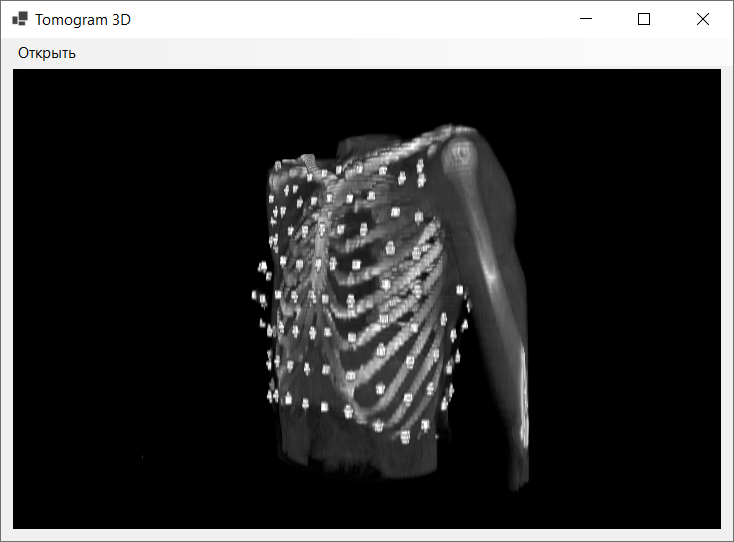
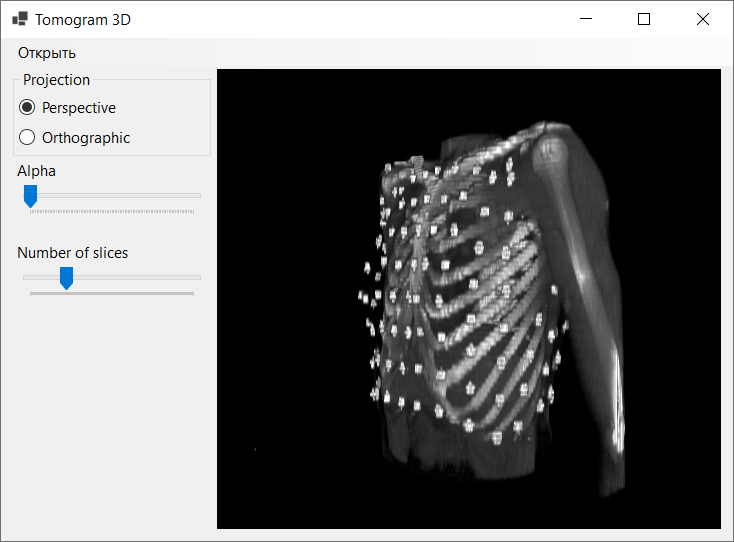
readme update 3d

diff --git a/README.md b/README.md
@@ -16,6 +16,10 @@
 
 ## Tomogram 3D
 
-3D визуализация томограммы!
+3D визуализация томограммы:
+
+- Варианты проекции: перспективная, ортографическая
+- Выбор минимального порога отрисовываемой прозрачности
+- Настройка количества отрисовываемых двумерных слоёв
 
 ![screenshot 3D](./screenshots/screenshot_3D.png)
